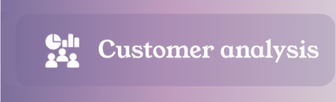
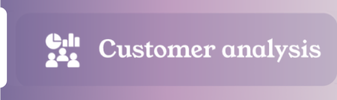
HoangAnh_ui7

diff --git a/Frame/Frame07/ui_Frame07.py b/Frame/Frame07/ui_Frame07.py
@@ -410,15 +410,9 @@ button_CustomerAnalysis.place(
     x=0.0,
     y=273.0,
     width=336.0,
-    height=102.0
+    height=100.0
 )
 
-image_image_12 = PhotoImage(
-    file=relative_to_assets("image_12.png"))
-image_12 = canvas.create_image(
-    14.0,
-    324.0,
-    image=image_image_12
-)
+
 window.resizable(False, False)
 window.mainloop()
